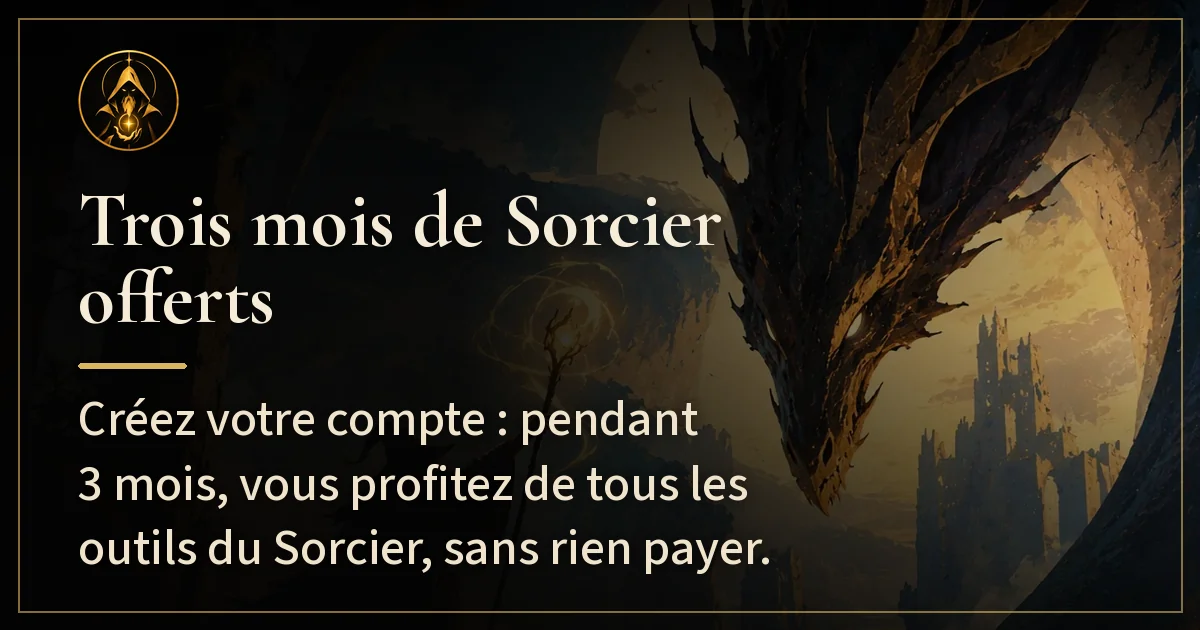
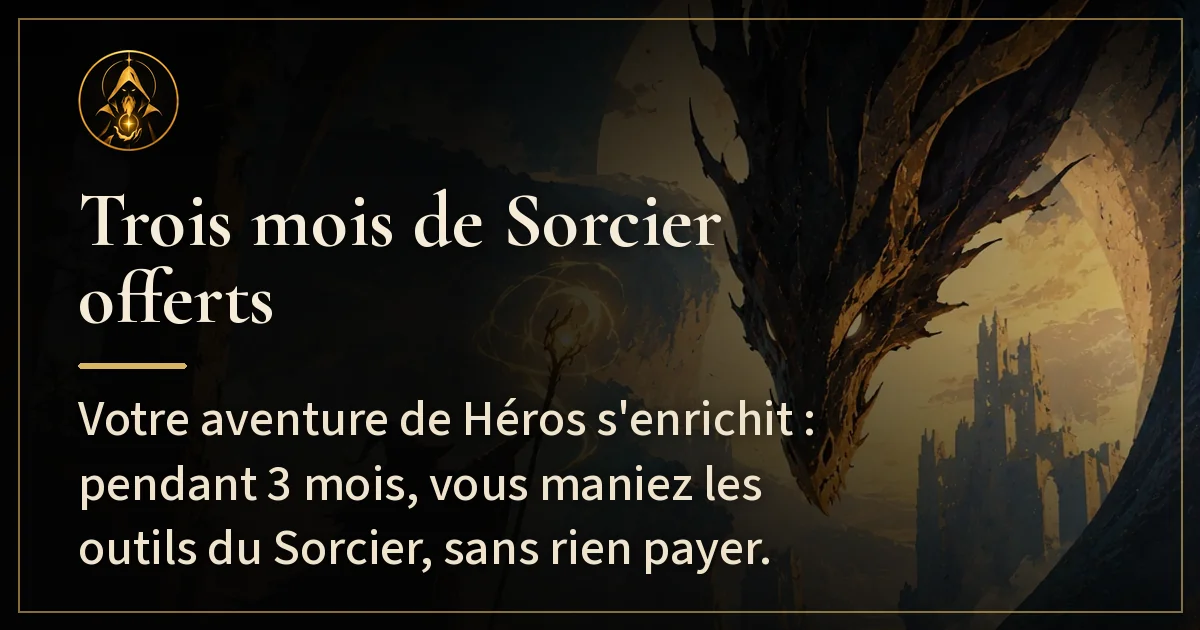
Nouvelles : phrases des images et textes dans l'esprit des livres dont vous êtes le héros, sans vocabulaire de trading
Claude-Session: https://claude.ai/code/session_01HTe4GG8zQBr2ycdCYNMDrp

Changed region(s): [[0.0617, 0.7238, 0.6475, 0.8143], [0.0617, 0.6333, 0.6783, 0.6937]]

diff --git a/web/guide-reference.html b/web/guide-reference.html
@@ -4,12 +4,12 @@
 <meta charset="utf-8">
 <meta name="viewport" content="width=device-width, initial-scale=1">
 <title>Le guide de référence, offert · La Cote du Héros</title>
-<meta name="description" content="Chaque livre, chaque édition et ses repères du marché, avec une stratégie pour acheter et vendre : le guide PDF est offert et refait chaque jour.">
+<meta name="description" content="Chaque livre, chaque édition et ses repères, avec la stratégie du collectionneur : le guide PDF est offert et refait chaque jour.">
 <meta property="og:type" content="website">
 <meta property="og:site_name" content="La Cote du Héros">
 <meta property="og:locale" content="fr_FR">
 <meta property="og:title" content="Le guide de référence, offert · La Cote du Héros">
-<meta property="og:description" content="Chaque livre, chaque édition et ses repères du marché, avec une stratégie pour acheter et vendre : le guide PDF est offert et refait chaque jour.">
+<meta property="og:description" content="Chaque livre, chaque édition et ses repères, avec la stratégie du collectionneur : le guide PDF est offert et refait chaque jour.">
 <meta property="og:image" content="https://lacoteduheros.fr/data/communaute/guide-reference-partage.jpg">
 <meta property="og:image:width" content="1200">
 <meta property="og:image:height" content="630">
@@ -54,12 +54,12 @@
 <p class="surtitre">Nouvelle · <time datetime="2026-11-22">22 novembre 2026</time></p>
 <h1>Le guide de référence, offert</h1>
 <img class="nouvelle-img pleine" src="images/guide-reference.webp" alt="Le guide de référence, offert : un héros brandit son épée face à un dragon" width="1200" height="630" decoding="async">
-<p>Chaque livre, chaque édition et ses repères du marché, avec une stratégie pour acheter et vendre selon la zone de chaque livre. Le guide est <strong>offert</strong> et <strong>refait chaque jour</strong>.</p>
+<p>Chaque livre, chaque édition et ses repères, avec la stratégie du collectionneur selon la zone de chaque livre. Le guide est <strong>offert</strong> et <strong>refait chaque jour</strong>.</p>
 <h2>Dedans</h2>
 <ul>
-  <li>Tous les livres, éditeur par éditeur, avec leurs repères : ce qu'on trouve en vente, et si c'est cher ou bon marché.</li>
+  <li>Tous les livres, éditeur par éditeur, avec leurs repères : le nombre d'annonces en ligne, un niveau de prix et la zone.</li>
   <li>Quatre zones pour situer chaque livre (rare ou courant, cher ou bon marché).</li>
-  <li>La stratégie du collectionneur : j'achète, je vends.</li>
+  <li>La stratégie du collectionneur, zone par zone.</li>
 </ul>
 <h2>Comment l'avoir</h2>
 <p>Connectez-vous avec Google (le compte est gratuit). Vous profitez de 3 mois de Sorcier, guide compris, dans le menu du compte, « Guide de référence (PDF) ».</p>

diff --git a/web/communaute.html b/web/communaute.html
@@ -104,7 +104,7 @@
     <h2 id="nouv-titre-dialogue">Créer une nouvelle</h2>
     <p class="sous">La page, les images, la carte de la Communauté et le flux RSS sont faits tout seuls. Make publie ensuite sur Facebook.</p>
     <div class="champ"><label for="nouv-titre">Titre (écrit en grand sur l'image)</label><input type="text" id="nouv-titre" required maxlength="80" autocomplete="off"></div>
-    <div class="champ"><label for="nouv-phrase">Phrase de l'image (une phrase naturelle, comme on parle)</label><input type="text" id="nouv-phrase" required maxlength="140" autocomplete="off"></div>
+    <div class="champ"><label for="nouv-phrase">Phrase de l'image (une phrase naturelle, dans l'esprit des livres dont vous êtes le héros)</label><input type="text" id="nouv-phrase" required maxlength="140" autocomplete="off"></div>
     <div class="champ"><label for="nouv-texte">Texte de l'article</label><textarea id="nouv-texte" required rows="9" maxlength="8000"></textarea>
       <p class="sous">Paragraphes séparés par une ligne vide. « ## Titre » pour une section, « - » pour une puce, « 1. » pour une étape, **gras**, [texte](adresse).</p></div>
     <div class="champ"><label for="nouv-facebook">Texte de la publication Facebook (facultatif)</label><textarea id="nouv-facebook" rows="5" maxlength="3000"></textarea></div>

diff --git a/web/essai-sorcier.html b/web/essai-sorcier.html
@@ -65,7 +65,7 @@
   <li><strong>Une pépite par jour</strong> : une annonce nettement sous la cote, offerte à tous les comptes.</li>
 </ul>
 <h2>Et en cadeau, le Sorcier</h2>
-<p>Un Héros avec des outils pour repérer les bonnes affaires et suivre le marché, offerts pendant 3 mois :</p>
+<p>Un Héros avec des outils en plus, offerts pendant 3 mois :</p>
 <ul>
   <li><strong>L'accès aux annonces</strong> : toutes les annonces reçues, du jour ou de la semaine.</li>
   <li><strong>Le Butin</strong> : les annonces d'occasion à 50 % du prix du site ou moins, avec les nouveautés signalées.</li>
